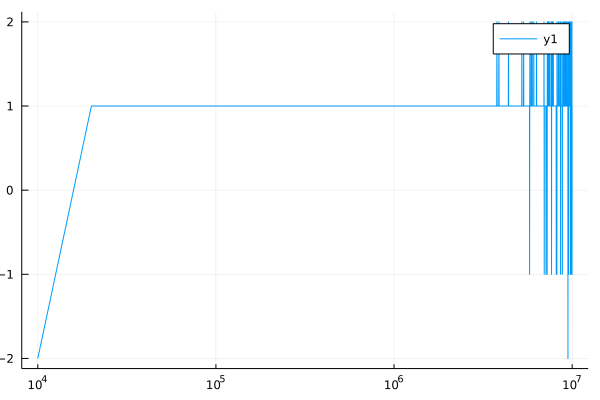
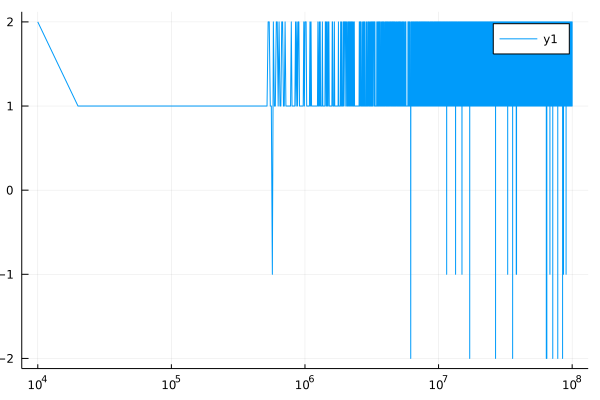
update result

diff --git a/README.md b/README.md
@@ -8,8 +8,8 @@ Based on `DQNLearner` in `QBasedPolicy` (as RL) and `BehaviorCloningPolicy` in `
 
 set:
 
-$`\epsilon`$ _ decay = 2000000,
-train_episodes = 10000000,
+$\epsilon$ _ decay = 20000000,
+train_episodes = 100000000,
 eval_every = 10000.
 
 get player 1 reward based on the trained policy
